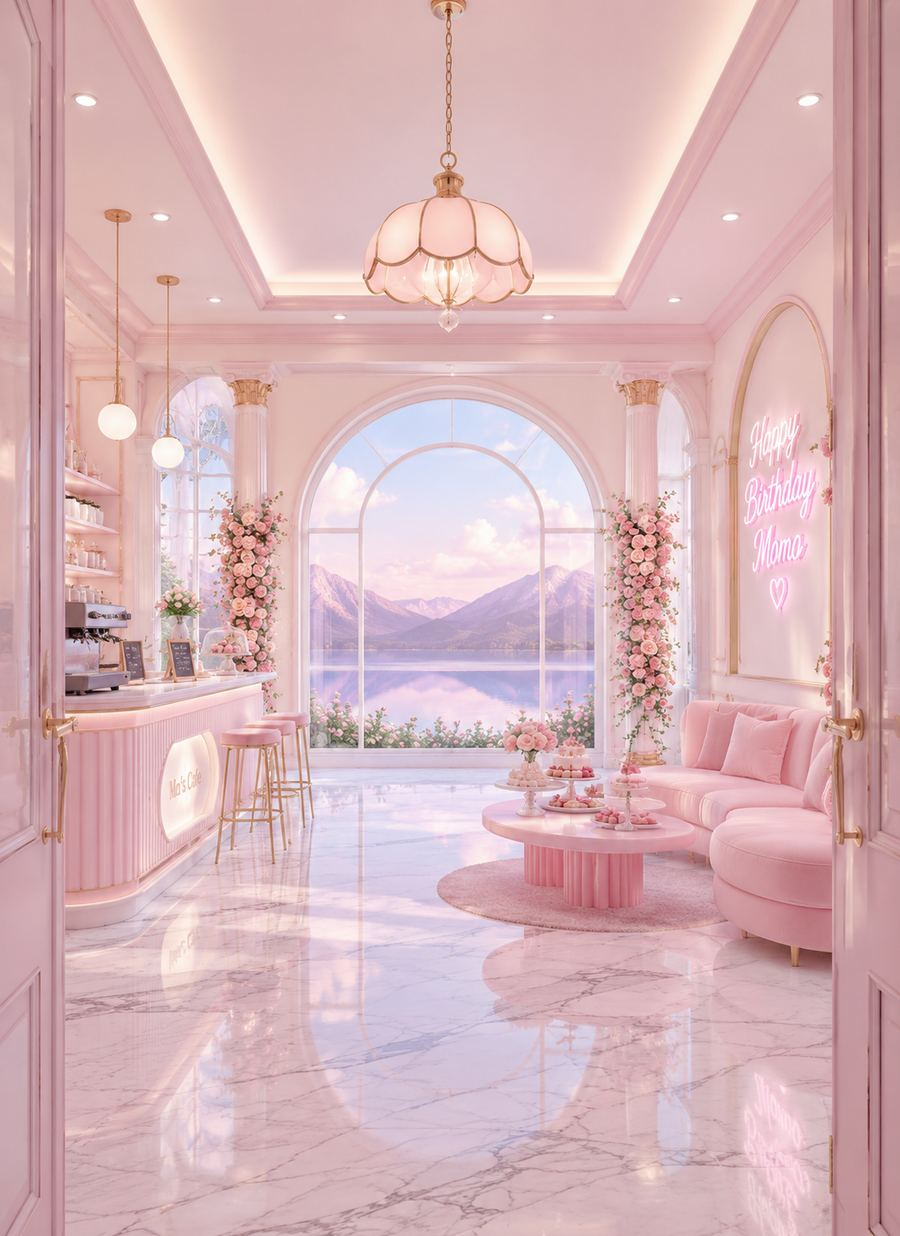
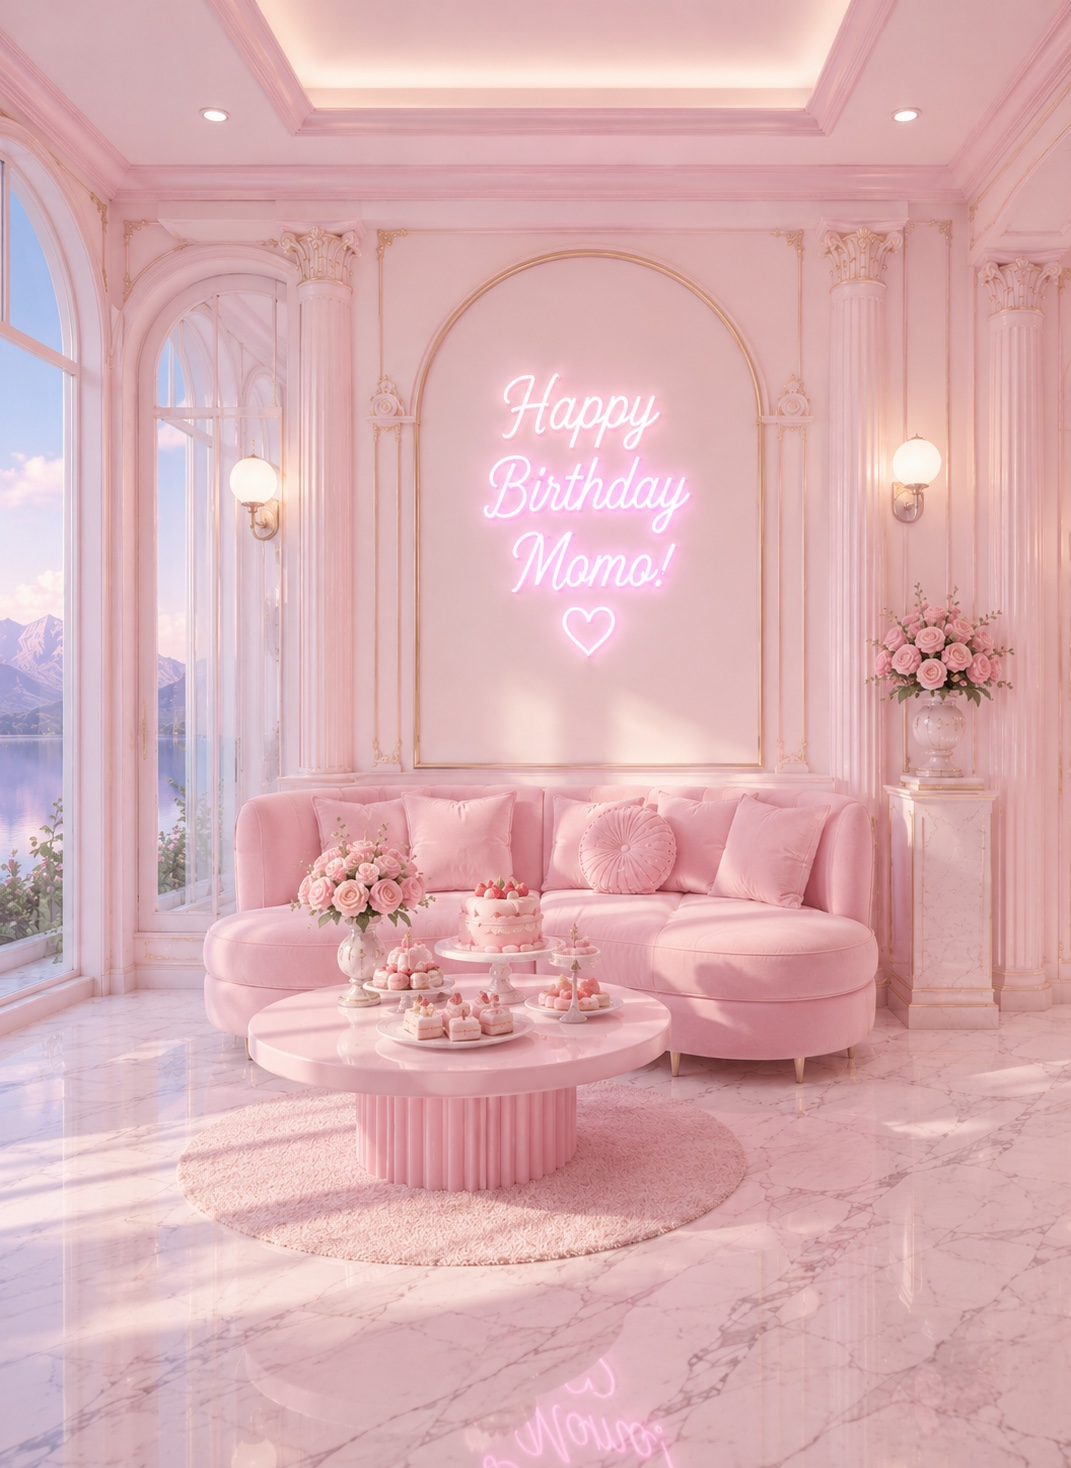
Replace scene-wishes.jpg with new pink-room neon photo
- New 1071×1468 photo of the pink salon with the "Happy Birthday
  Momo!" neon sign, pink velvet sofa and cake table — the real
  backdrop for the 祝福牆 page (and any hidden /inbox.html visit)
- Drop the legacy 72% center offset: the previous file was reused
  from the lobby photo and needed the offset to expose the sofa;
  the new photo is centered around the neon sign, so background-
  position: center now frames it correctly
- inbox.css already used center, so no change needed there

diff --git a/css/wall.css b/css/wall.css
@@ -1,7 +1,7 @@
 /* ============================================================
    祝福牆頁面 — 場景背景
 ============================================================ */
-.scene-bg[data-bg="wishes"]{background-image:url('../images/scene-wishes.jpg');background-position:72% center;}
+.scene-bg[data-bg="wishes"]{background-image:url('../images/scene-wishes.jpg');background-position:center;}
 
 /* ============================================================
    簽到祝福留言牆
